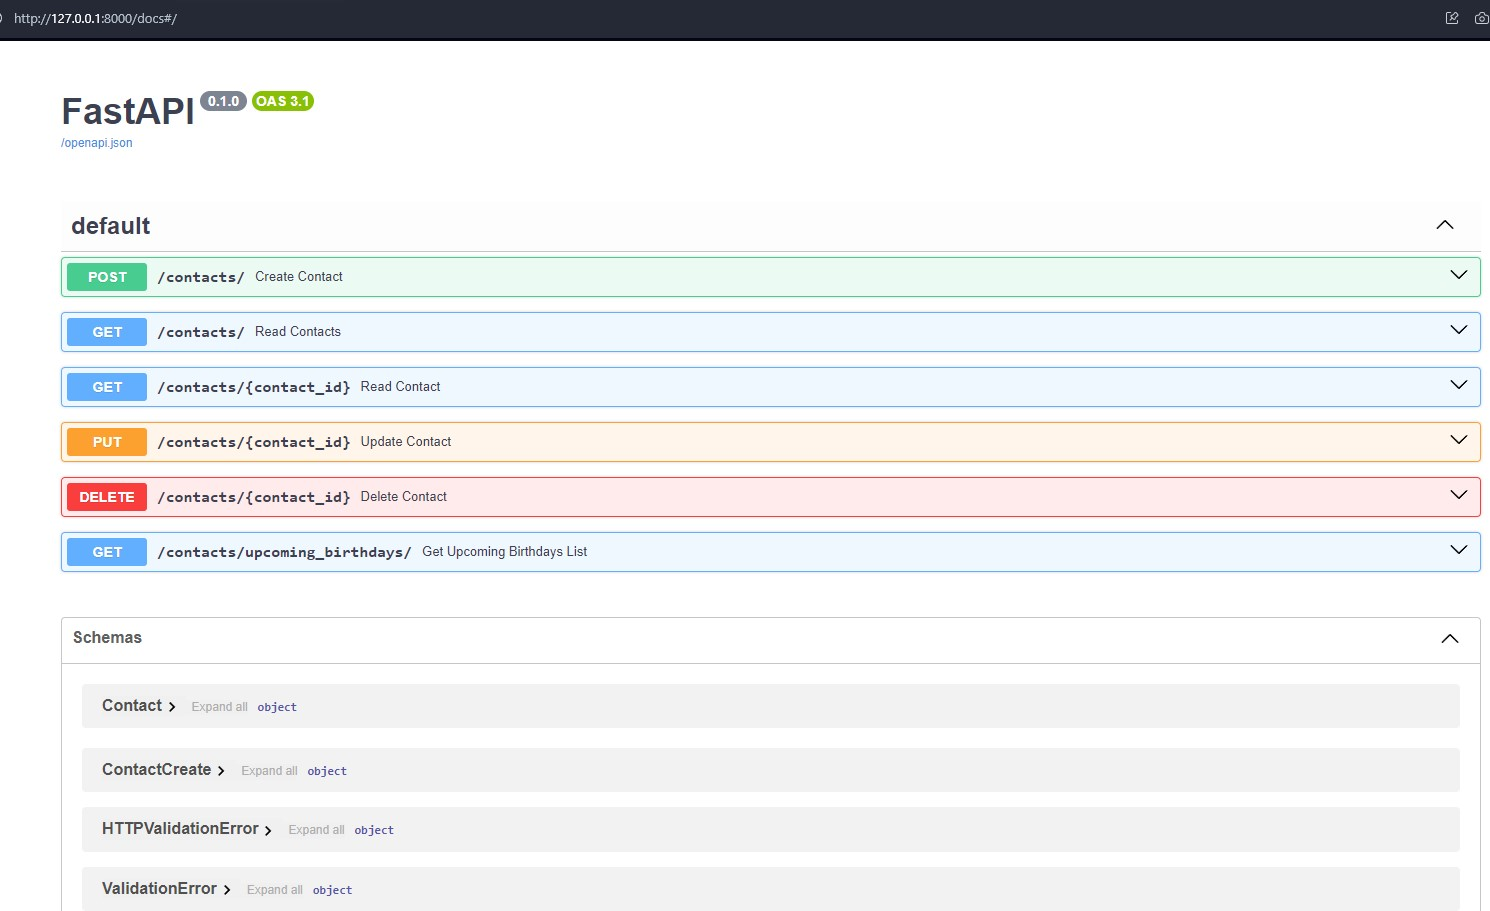
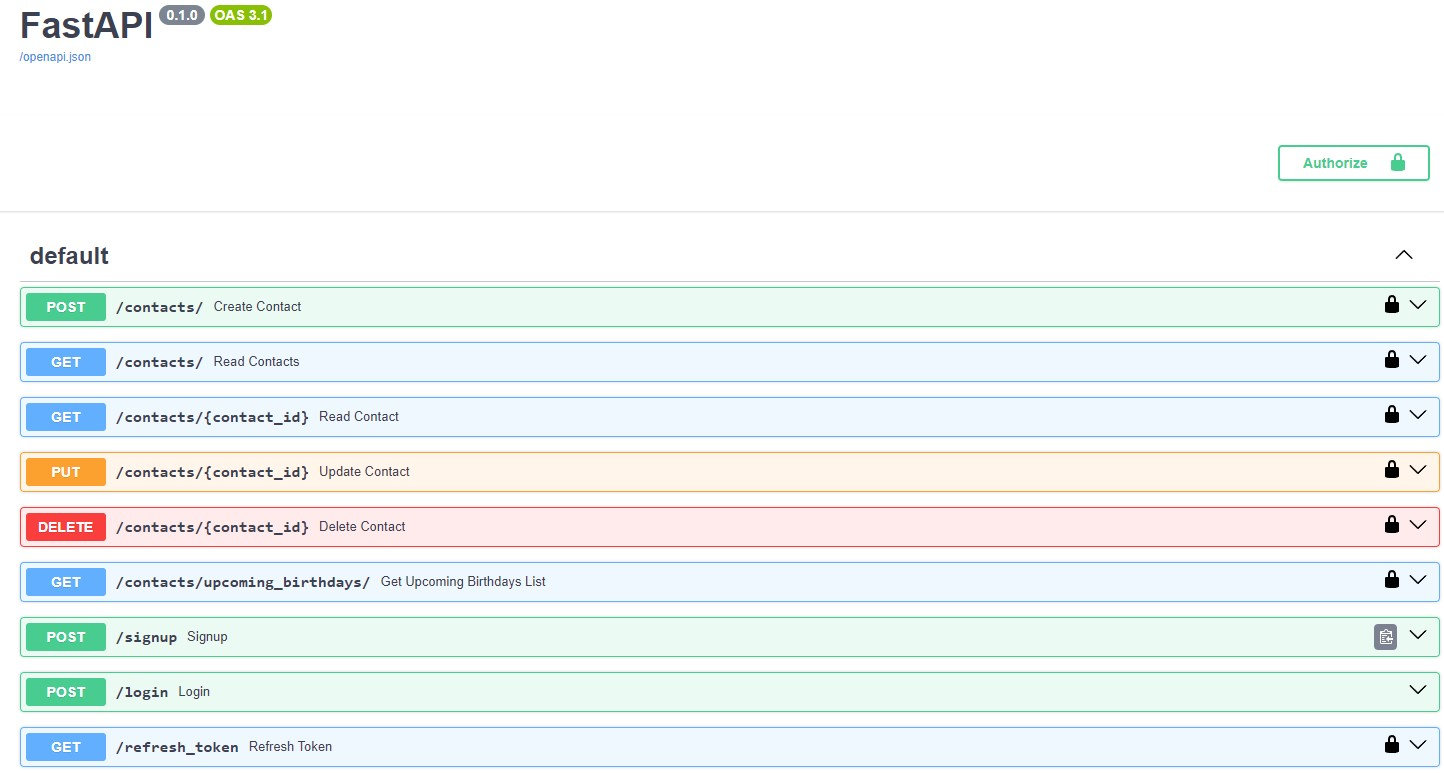
HW_12 vers_0.2

Changed region(s): [[0.0, 0.2173, 1.0, 0.9935], [0.0, 0.0, 1.0, 0.1863], [0.8726, 0.1863, 0.9972, 0.2484]]

diff --git a/HW_12/contact_api/contact_api/crud.py b/HW_12/contact_api/contact_api/crud.py
@@ -48,14 +48,18 @@ def remove_contact(db: Session, contact_id: int, user: User):
     db.commit()
     return db_contact
 
-
 def get_upcoming_birthdays(db: Session, user: User):
-    today = datetime.now()
+    today = datetime.now().date()
     end_date = today + timedelta(days=7)
     return db.query(Contact).filter(
-        func.extract('month', Contact.birthday) == end_date.month,
+        func.extract('month', Contact.birthday) == today.month,
         func.extract('day', Contact.birthday) >= today.day,
-        func.extract('day', Contact.birthday) <= (end_date).day, 
+    ).union(
+        db.query(Contact).filter(
+            func.extract('month', Contact.birthday) == end_date.month,
+            func.extract('day', Contact.birthday) <= end_date.day,
+        )
+    ).filter(
         Contact.user_id == user.id
     ).all()
 

diff --git a/HW_12/contact_api/contact_api/services/auth.py b/HW_12/contact_api/contact_api/services/auth.py
@@ -15,7 +15,7 @@ class Auth:
     pwd_context = CryptContext(schemes=["bcrypt"], deprecated="auto")
     SECRET_KEY = "secret_key"
     ALGORITHM = "HS256"
-    oauth2_scheme = OAuth2PasswordBearer(tokenUrl="/api/auth/login")
+    oauth2_scheme = OAuth2PasswordBearer(tokenUrl="/login") # /api/auth/login
 
     def verify_password(self, plain_password, hashed_password):
         return self.pwd_context.verify(plain_password, hashed_password)

diff --git a/HW_12/README.md b/HW_12/README.md
@@ -1,0 +1,177 @@
+## Домашнє завдання #12
+    
+## Завдання (попереднє #11)
+  
+Мета цього домашнього завдання — створити REST API для зберігання та управління контактами. API повинен бути побудований з використанням інфраструктури FastAPI та використовувати SQLAlchemy для управління базою даних.  
+
+Контакти повинні зберігатися в базі даних та містити в собі наступну інформацію:  
+* Ім'я
+* Прізвище
+* Електронна адреса
+* Номер телефону
+* День народження
+* Додаткові дані (необов'язково)
+
+
+API повинен мати можливість виконувати наступні дії:  
+* Створити новий контакт
+* Отримати список всіх контактів
+* Отримати один контакт за ідентифікатором
+* Оновити існуючий контакт
+* Видалити контакт
+
+
+На придачу до базового функціоналу CRUD API також повинен мати наступні функції:   
+
+* Контакти повинні бути доступні для пошуку за іменем, прізвищем чи адресою електронної пошти (Query).     
+* API повинен мати змогу отримати список контактів з днями народження на найближчі 7 днів.    
+  
+  
+## Завдання (#12)
+
+* реалізуйте механізм аутентифікації в застосунку;   
+* реалізуйте механізм авторизації за допомогою JWT токенів, щоб усі операції з контактами проводились лише зареєстрованими користувачами;
+* користувач має доступ лише до своїх операцій з контактами.
+
+
+## Загальні вимоги
+
+* При реєстрації, якщо користувач вже існує з таким email, сервер поверне помилку HTTP 409 Conflict;
+* Сервер хешує пароль і не зберігає його у відкритому вигляді в базі даних;
+* У разі успішної реєстрації користувача сервер повинен повернути HTTP статус відповіді 201 Created та дані нового користувача;
+* Для всіх операцій POST створення нового ресурсу, сервер повертає статус 201 Created;
+* При операції POST - аутентифікація користувача, сервер приймає запит із даними користувача (email, пароль) у тілі запиту;
+* Якщо користувач не існує або пароль не збігається, повертається помилка HTTP 401 Unauthorized;
+* механізм авторизації за допомогою JWT токенів реалізований парою токенів: токена доступу access_token і токен оновлення refresh_token.
+
+
+### Порядок виконання
+
+Щоб підняти докер-контейнер з PostgreSQL і створити в ньому базу даних postgres:  
+
+```
+docker run --name db-postgres -p 5432:5432 -e POSTGRES_PASSWORD=567234 -d postgres  
+```
+
+Щоб запустити віртуальне середовище і запустити [Swagger документацію RESTful API](http://127.0.0.1:8000/docs):    
+
+```cd contact_api```   
+```poetry shell```    
+```cd contact_api```    
+```uvicorn main:app --host localhost --port 8000 --reload```    
+
+На сторінці документації потрібно зареєструуватися в розділі документації ```POST /signup```. Наприклад:  
+```  
+{    
+"username": "elen_de2",  
+"email": "alenka@gmail.com",    
+"password": "Alenka2004"  
+}  
+```
+
+Відповідь сервера:  
+  
+Code	Details  
+201	  
+Response body 
+{  
+  "user": {  
+    "id": 2,  
+    "username": "elen_de2",  
+    "email": "alenka@gmail.com",  
+    "created_at": ...,  
+    "avatar": ...  
+  },  
+  "detail": "User successfully created"  
+}  
+  
+Далі в розділі ```POST /login``` залогінітися:  
+  
+username -> alenka@gmail.com  
+password -> Alenka2004  
+client_id -> 2 (з Response body "user" -> "id")  
+  
+Далі авторизуємося з цими даними і все можемо виконувати різні операції з контактами.  
+   
+На сторінці документації можна створити контакти. Для цього перейдемо в розділ ```POST /contacts/ Create contacts``` і додамо наступні контакти:
+```
+  {
+    "first_name": "Nina",
+    "last_name": "Dobrev",
+    "email": "nina12@gmail.com",
+    "phone_number": "380995678945",
+    "birthday": "2001-04-06",
+    "additional_data": "Actress",
+    "id": 18
+  }
+```
+```
+  {
+    "first_name": "Mark",
+    "last_name": "Kingston",
+    "email": "markkng@gmail.com",
+    "phone_number": "380677453892",
+    "birthday": "1995-04-10",
+    "additional_data": "-",
+    "id": 19
+  }
+```
+```
+  {
+    "first_name": "Kai",
+    "last_name": "Parker",
+    "email": "kaipark@gmail.com",
+    "phone_number": "380667453899",
+    "birthday": "2024-03-31",
+    "additional_data": "-",
+    "id": 20
+  }
+```
+
+Далі в розділі ```GET /contacts/ Read Contacts``` можна отримати всі контакти, або ж якщо ввести в пошуковий запит ```query``` ім'я, прізвище чи електронну адресу - отримати шуканий контакт, якщо такий існує в базі даних.  
+  
+Далі в розділі ```GET /contacts/{contact_id} Read Contact``` можна за ідентифікатором знайти необхідний контакт.  
+     
+Далі в розділі ```PUT /contacts/{contact_id} Update Contact``` можна за ідентифікатором знайти необхідний контакт і оновити його дані.  
+  
+Далі в розділі ```DELETE /contacts/{contact_id} Delete Contact``` можна за ідентифікатором видалити контакт.
+
+Далі в розділі ```GET /contacts/upcoming_birthdays/ Get Upcoming Birthdays List``` можна отримати список контактів з днями народження на найближчі 7 днів:
+
+```
+Code	Details  
+200	  
+Response body  
+Download  
+[  
+  {  
+    "first_name": "Nina",  
+    "last_name": "Dobrev",  
+    "email": "nina12@gmail.com",  
+    "phone_number": "380995678945",  
+    "birthday": "2001-04-06",  
+    "additional_data": "Actress",  
+    "id": 18  
+  },
+  {
+    "first_name": "Kai",  
+    "last_name": "Parker",  
+    "email": "kaipark@gmail.com",  
+    "phone_number": "380667453899",  
+    "birthday": "2024-03-31",  
+    "additional_data": "-",  
+    "id": 20  
+  }  
+]  
+Response headers  
+ content-length: 315   
+ content-type: application/json   
+ date: Sun,31 Mar 2024 17:13:46 GMT   
+ server: uvicorn   
+```
+
+## Результат   
+
+[Swagger документація RESTful API:](http://127.0.0.1:8000/docs)  
+  
+![res](contact_api/contact_api/result/res.jpg)
